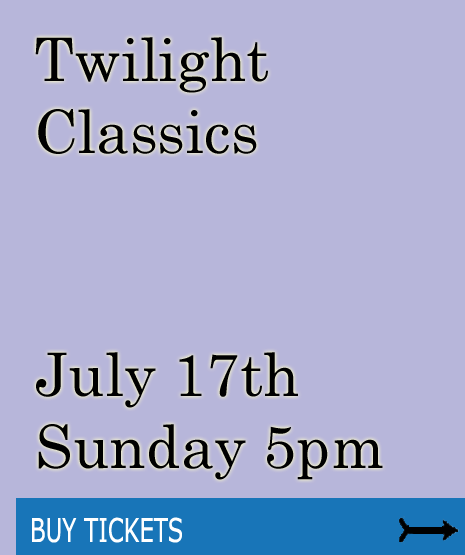
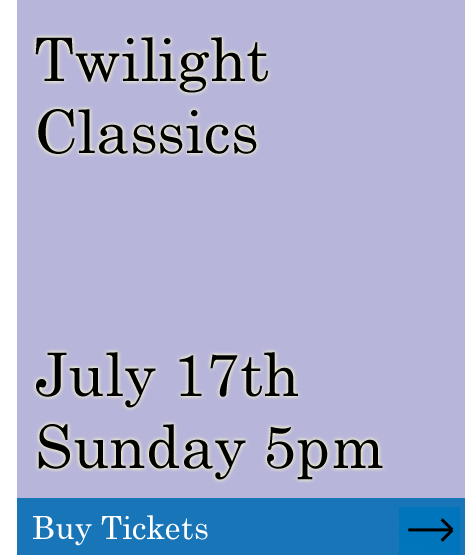
Attempting to fix footer images
Removed classes and inline styles

Changed region(s): [[0.0, 0.0, 0.4516, 1.0], [0.843, 0.9189, 0.9935, 0.9802]]

diff --git a/index.html b/index.html
@@ -191,9 +191,9 @@
                 <div class="col-xs-4 col-md-3 leftEdge"> Left edge </div>
                 <div class="col-xs-4 col-md-6">
                     <h1> Our Sponsers </h1>
-                    <div class="col-xs-4 col-md-2"><img src="townsville-council-logo.jpg" width="200" height="120" alt="Townsville Council"/></div>
-                    <div class="col-xs-4 col-md-2"><img src="ACVClogo.jpg" width="200" height="120" alt="ACVC"/></div>
-                    <div class="col-xs-4 col-md-2"><img src="AFCMlogo-25th.gif" width="200" height="120" alt="AFCM"/></div>
+                    <div class="col-s-4 col-md-2 "><img class = "sponsor" src="townsville-council-logo.gif" alt="Townsville Council"/></div>
+                    <div class="col-s-4 col-md-2 "><img class = "sponsor" src="ACVClogo.jpg" alt="ACVC"/></div>
+                    <div class="col-s-4 col-md-2 "><img class = "sponsor" src="AFCMlogo-25th.gif" alt="AFCM"/></div>
                 </div>
                 <div class="col-xs-4 col-md-3 rightEdge"> Right edge </div>
             </div>
@@ -201,15 +201,14 @@
             <div class = "row">
                 <div class="col-xs-4 col-md-3 leftEdge"> Left edge </div>
                 <div class="col-xs-4 col-md-6">
-                    <div class="col-xs-4 col-md-2"><img src="asap-logo.png" width="200" height="120" alt="ASAP"/> </div>
-                    <div class="col-xs-4 col-md-2"><img src="groovy graphics.jpg" width="200" height="120" alt="Groovy graphics"/></div>
-                    <div class="col-xs-4 col-md-2"><img src="SOE new logo 3.jpg" width="200" height="120" alt="SOE"/></div>
+                    <div class="col-s-4 col-md-2 "><img class = "sponsor" src="asap-logo.png" alt="ASAP"/> </div>
+                    <div class="col-s-4 col-md-2 "><img class = "sponsor" src="groovy graphics.jpg" alt="Groovy graphics"/></div>
+                    <div class="col-s-4 col-md-2 "><img class = "sponsor" src="SOE%20logo.jpg" alt="SOE"/></div>
                 </div>
                 <div class="col-xs-4 col-md-3 rightEdge"> Right edge </div>
             </div>
 
         </div>
-
 
 
 

diff --git a/Arthur_Athan.html b/Arthur_Athan.html
@@ -99,7 +99,7 @@
 
                     <p > <a href="http://arthurathan.wix.com/arthurathan">Visit Arthurs Website</a></p>
                 </div>
-                <div class="col-xs-6 col-md-3 fill"> <img class = "bioImg" src="arthurHighRes.jpg">           </div>
+                <div class="col-xs-6 col-md-3 fill"> <img class = "bioImg img-responsive" src="arthurHighRes.jpg">           </div>
                 <div class="col-xs-6 col-md-3 rightEdge"></div>
             </div>
         </div>

diff --git a/mainStyles.css b/mainStyles.css
@@ -180,3 +180,21 @@ body {
 .fill {
     background-color: #ffffff;
 }
+
+
+.container-fluid {
+    padding: 0px;
+}
+
+.nav-pills {
+    display: block;
+    margin: 0 auto;
+    padding: 10px;
+}
+
+/*footer*/
+/*Home footer + sponsor*/
+
+.sponsor {
+    display: block;
+}
